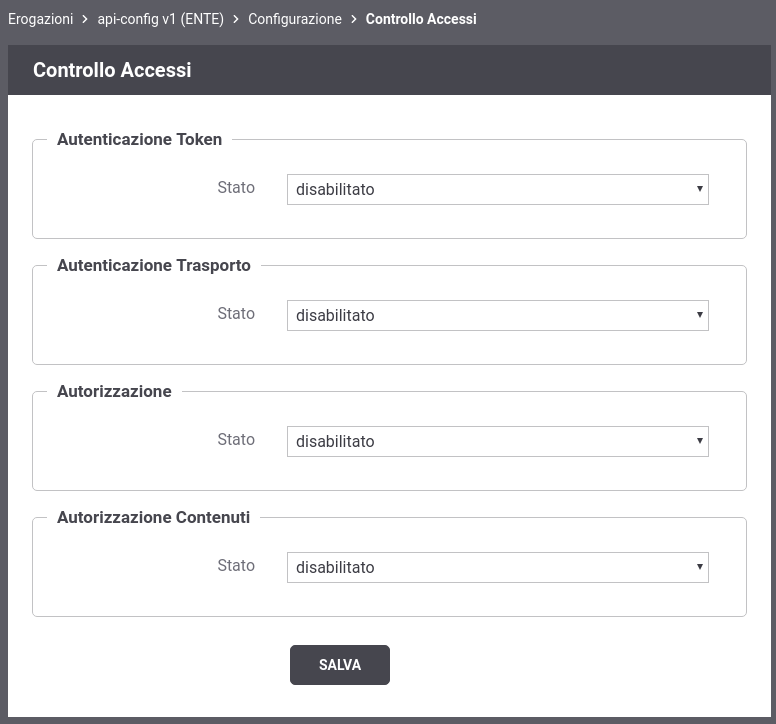
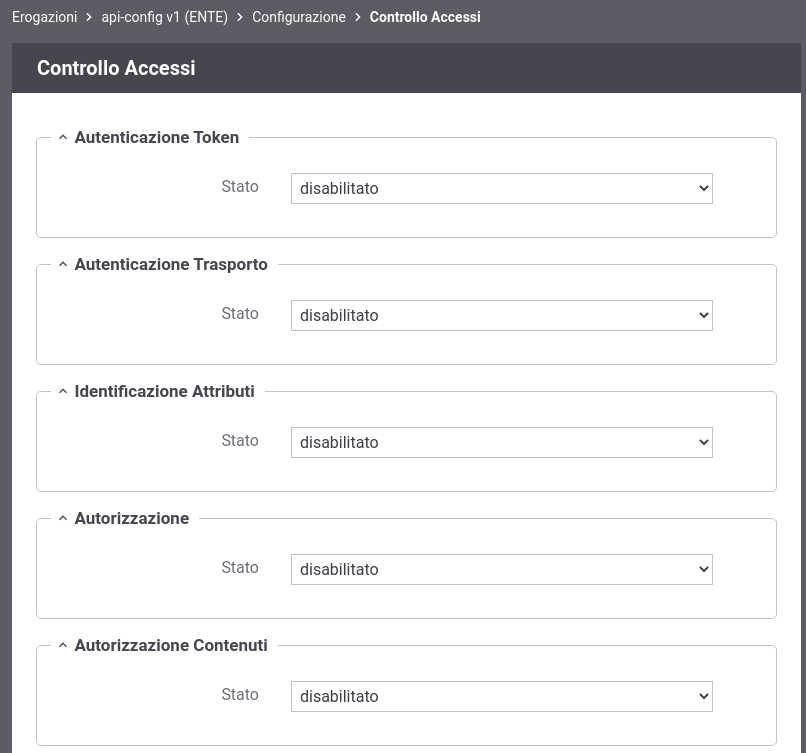
[Documentazione] Aggiunta documentazione per AttributeAuthority

diff --git a/resources/doc/src/manuali/console/configurazione/attributeAuthority/aaRichiesta.rst b/resources/doc/src/manuali/console/configurazione/attributeAuthority/aaRichiesta.rst
@@ -1,0 +1,82 @@
+.. _aaRichiesta:
+
+Richiesta di Attributi
+----------------------------------
+
+Ogni singola AA definisce nelle proprie specifiche di integrazione quali siano gli elementi obbligatori che devono essere presenti nelle richieste tra cui l'informazione necessaria ad identificare il soggetto per cui si sta richiedendo gli attributi.
+La sezione seguente consente di definire come GovWay debba formare la richiesta che verrà inoltrata all'endpoint configurato nella sezione :ref:`aaEndpoint`.
+
+-  *Posizione*: indica dove risiede la richiesta di attributi nella comunicazione HTTP:
+
+	-  *Authorization Bearer*: richiesta inserita nell'header HTTP 'Authorization' con prefisso 'Bearer';
+	-  *HTTP Payload*: richiesta veicolata come payload http;
+	-  *Header HTTP*: richiesta inserita in un header HTTP il cui nome viene definito nel campo successivo fornito;
+	-  *Parametro URL*: richiesta inserita come parametro della url il cui nome viene definito nel campo successivo fornito.
+
+-  *Http Method*: consente di selezionare il tipo di richiesta HTTP da utilizzare tra quelle compatibili con la *Posizione* della richiesta di attributi.
+
+-  *Tipo Richiesta*: indica il formato della richiesta:
+
+	-  *JWS*: token JWT firmato (https://datatracker.ietf.org/doc/html/rfc7515);
+	-  *JSON*: consente di definire la richiesta di attributi tramite la definizione di un template;
+	-  *Personalizzata*: simile alla precedente opzione, consente inoltre di impostare il Content-Type associato alla richiesta.
+
+**Richiesta nel formato JWT**
+
+Nel caso di richiesta di tipo *JWS* si deve fornire le informazioni necessarie a produrre il JWT firmato così suddivise:
+
+-  *JWS KeyStore*: dati di accesso al keystore contenente la chiave privata ed il certificato da utilizzare per firmare il JWT.
+
+-  *JWS Header*: consente di indicare quali dati debbano essere inseriti nella parte header (non firmati) del JWT; tra i parametri impostabili vi sono l'algoritmo di firma e l'indicazione se deve essere inserito il certificato utilizzato per la firma nell'header (x5c).
+
+-  *JWS Payload*: consente di impostare i valori dei claim presenti nella parte body (firmata) del JWT. Vengono fornite differenti modalità con le quali poter definire il payload:
+
+	-  *RFC7515*: consente di definire i claims standard ('iss','sub' e 'aud') e la validità temporale del JWT. Inoltre è possibile definire ulteriori claims da inserire nel body indicandoli per riga (nome=valore) nel campo 'Claims'. I claim 'iss', 'sub', 'aud' e gli eventuali claims aggiuntivi possono essere definiti tramite costanti o possono contenere parti dinamiche risolte a runtime dal Gateway (per maggiori dettagli :ref:`valoriDinamici`).
+
+	-  *Template*: il payload viene definito tramite un template che può contenere parti dinamiche risolte a runtime definite tramite una sintassi proprietaria di GovWay.
+
+	-  *Freemarker Template*: il payload viene definito utilizzando il template "Freemarker" (https://freemarker.apache.org/).
+
+	-  *Velocity Template*: il payload viene definito utilizzando il template "Velocity" (http://velocity.apache.org/).
+
+.. figure:: ../../_figure_console/AA-richiesta-jws.png
+    :scale: 100%
+    :align: center
+    :name: aaRichiestaJwsFig
+
+    Richiesta di Attributi nel formato JWS con modalità 'RFC7515'
+
+**Richiesta in altri formati**
+
+Nel caso di richiesta di tipo *Json* o *Personalizzata* si deve fornire un template che definisce la richiesta di attributi. Il tipo di template utilizzabile è selezionabile tra i seguenti:
+
+-  *Template*: il contenuto della richiesta viene definito tramite un template che può contenere parti dinamiche risolte a runtime definite tramite una sintassi proprietaria di GovWay;
+
+-  *Freemarker Template*: il contenuto della richiesta viene definito utilizzando il template "Freemarker" (https://freemarker.apache.org/);
+
+-  *Velocity Template*: il contenuto della richiesta viene definito utilizzando il template "Velocity" (http://velocity.apache.org/).
+
+.. figure:: ../../_figure_console/AA-richiesta-json.png
+    :scale: 100%
+    :align: center
+    :name: aaRichiestaJsonFig
+
+    Richiesta di Attributi nel formato JSON
+
+**Valori dinamici utilizzabili nei Template**
+
+I costrutti utilizzabili nei template sono i medesimi delle funzionalità di trasformazione descritte nella sezione ':ref:`valoriDinamici`' arricchiti di un'ulteriore istruzione che consente di individuare gli attributi da richiedere configurati sulla specifica fruizione o erogazione di API nella quale è stata riferita l'AA :
+
+- *requiredAttributes:METHOD* : il valore 'METHOD' fornito deve rappresentare un metodo valido all'interno della classe 'org.openspcoop2.pdd.core.token.attribute_authority.RequiredAttributes'
+
+	- Se la richiesta è definita tramite un template con sintassi proprietaria di GovWay gli attributi saranno direttamente accessibili utilizzando il formato '${requiredAttributes:METHOD}'; ad es. per ottenere la lista degli attributi in un formato utilizzabile all'interno di un array json usare ${requiredAttributes:jsonList()} oppure ${requiredAttributes:formatList(",")}.
+	- Se la richiesta è definita tramite template Freemarker o Velocity l'oggetto contenente gli attributi da richiedere è presente nel contesto con chiave di accesso 'aa'.
+
+Di seguito un esempio di template GovWay che definisce una richiesta JSON in cui l'identità della persona fisica per cui si richiede gli attributi viene prelevata dal token OAuth e gli attributi richiesti sono quelli configurati nell'erogazione di API:
+
+   ::
+
+       {
+		"attributes": [${requiredAttributes:jsonList()}],
+		"fiscalCode": "${tokenInfo:username}"
+       }

diff --git a/resources/doc/src/manuali/console/profiloApiGateway/trasformazioni/valoriDinamici.rst b/resources/doc/src/manuali/console/profiloApiGateway/trasformazioni/valoriDinamici.rst
@@ -5,19 +5,20 @@ Valori dinamici
 
 Le regole di trasformazione possono avvalersi di un contesto di risorse, con valori aggiornati dinamicamente dal gateway, cui attingere per le trasformazioni da attuare. Tali risorse sono utilizzabili quando si procede con la definizione di una regola di trasformazione. Elenchiamo le risorse disponibili:
 
--   header.NAME: valore dell'header http, corrispondente all'identificativo NAME, della richiesta.
--   query.NAME: valore di un parametro della url di invocazione, corrispondente all'identificativo NAME.
--   form.NAME: valore di un parametro della form, corrispondente all'identificativo NAME.
--   urlRegExp.EXPR: applicazione di un’espressione regolare, rappresentata dal valore EXPR, alla url di invocazione.
--   xPath.EXPR: applicazione di un'espressione XPath, rappresentata dal valore EXPR, alla richiesta xml (o soap).
--   jsonPath.EXPR: applicazione di un'espressione jsonPath, rappresentata dal valore EXPR, alla richiesta json.
--   transaction.id: l'identificativo UUID della transazione corrente.
--   date.FORMAT: la data di elaborazione del messaggio; il formato fornito deve essere conforme a quanto richiesto dalla classe java 'java.text.SimpleDateFormat' (es. ${date:yyyyMMdd_HHmmssSSS})
--   busta.FIELD: accesso alle informazioni proprie del profilo di interoperabilità utilizzato; il valore 'FIELD' fornito deve rappresentare un field valido all'interno della classe 'org.openspcoop2.protocol.sdk.Busta' (ad es. per il mittente usare *busta.mittente*)
--   property.NAME: accesso alle proprietà contenute nella traccia (ad esempio l'identificativo SDI); Il valore 'NAME' indica il nome della proprietà da utilizzare.
--   tokenInfo:FIELD: accesso ai claim di un token precedentemente validato; il valore 'FIELD' fornito deve rappresentare un field valido all'interno della classe 'org.openspcoop2.pdd.core.token.InformazioniToken' (es. per ottenere il valore del claim 'sub' usare ${tokenInfo:sub})
--   transportContext:FIELD: accesso ai dati della richiesta http; il valore 'FIELD' fornito deve rappresentare un field valido all'interno della classe 'org.openspcoop2.utils.transport.http.HttpServletTransportRequestContext' (es. per il principal usare ${transportContext:credential.principal})
--   config:NAME: accesso alle proprietà configurate per l'API; il valore 'NAME' indica la proprietà desiderata
+-   *header:NAME* : valore dell'header http, corrispondente all'identificativo NAME, della richiesta.
+-   *query:NAME* : valore di un parametro della url di invocazione, corrispondente all'identificativo NAME.
+-   *form:NAME* : valore di un parametro della form, corrispondente all'identificativo NAME.
+-   *urlRegExp:EXPR* : applicazione di un’espressione regolare, rappresentata dal valore EXPR, alla url di invocazione.
+-   *xPath:EXPR* : applicazione di un'espressione XPath, rappresentata dal valore EXPR, alla richiesta xml (o soap).
+-   *jsonPath:EXPR* : applicazione di un'espressione jsonPath, rappresentata dal valore EXPR, alla richiesta json.
+-   *transaction:id* : l'identificativo UUID della transazione corrente.
+-   *date:FORMAT* : la data di elaborazione del messaggio; il formato fornito deve essere conforme a quanto richiesto dalla classe java 'java.text.SimpleDateFormat' (es. ${date:yyyyMMdd_HHmmssSSS})
+-   *busta:FIELD* : accesso alle informazioni proprie del profilo di interoperabilità utilizzato; il valore 'FIELD' fornito deve rappresentare un field valido all'interno della classe 'org.openspcoop2.protocol.sdk.Busta' (ad es. per il mittente usare *busta.mittente*)
+-   *property:NAME*: accesso alle proprietà contenute nella traccia (ad esempio l'identificativo SDI); Il valore 'NAME' indica il nome della proprietà da utilizzare.
+-   *tokenInfo:FIELD* : accesso ai claim di un token precedentemente validato; il valore 'FIELD' fornito deve rappresentare un field valido all'interno della classe 'org.openspcoop2.pdd.core.token.InformazioniToken' (es. per ottenere il valore del claim 'sub' usare ${tokenInfo:sub})
+-   *aa:FIELD* : consente di accedere agli attributi recuperati tramite Attribute Authority; il valore 'FIELD' fornito deve rappresentare un field valido all'interno della classe 'org.openspcoop2.pdd.core.token.attribute_authority.InformazioniAttributi' (es. per ottenere il valore dell'attributo 'attr1' usare ${aa:attributes[attr1]}, se configurata solamente 1 A.A., altrimenti usare ${aa:attributes[nomeAttributeAuthority][attr1]} )
+-   *transportContext:FIELD* : accesso ai dati della richiesta http; il valore 'FIELD' fornito deve rappresentare un field valido all'interno della classe 'org.openspcoop2.utils.transport.http.HttpServletTransportRequestContext' (es. per il principal usare ${transportContext:credential.principal})
+-   *config:NAME* : accesso alle proprietà configurate per l'API; il valore 'NAME' indica la proprietà desiderata
 
 Per le risposte sono inoltre disponibili anche le seguenti risorse:
 
@@ -41,6 +42,7 @@ La sintassi per accedere le proprietà dinamiche sopraelencate è differente in 
 - ${busta:FIELD}
 - ${property:NAME}
 - ${tokenInfo:FIELD}
+- ${aa:FIELD}
 - ${transportContext:FIELD}
 - ${config:NAME}
 
@@ -57,6 +59,7 @@ Nei casi in cui il testo della trasformazione è interpretato da framework ester
 - busta (org.openspcoop2.protocol.sdk.Busta)
 - property (java.util.Map<String, String>)
 - tokenInfo (org.openspcoop2.pdd.core.token.InformazioniToken)
+- aa (org.openspcoop2.pdd.core.token.attribute_authority.InformazioniAttributi)
 - transportContext (org.openspcoop2.utils.transport.http.HttpServletTransportRequestContext)
 - config (java.util.Map<String, String>)
 

diff --git a/resources/doc/src/manuali/console/configurazione/attributeAuthority/index.rst b/resources/doc/src/manuali/console/configurazione/attributeAuthority/index.rst
@@ -1,0 +1,40 @@
+.. _aa:
+
+Attribute Authority
+-------------------
+
+Una Attribute Authority (AA) gestisce gli attributi qualificati di persone fisiche o giuridiche.
+Un attributo qualificato descrive una proprietà di un’identità e si definisce qualificato perché è attestato da un soggetto (Attribute Authority) cui la legge conferisce tale potere. 
+La descrizione e il formato di ogni attributo è specifico dell'Attribute Authority alla quale è possibile richiedere attributi solo mediante la stipula di una convenzione.
+Inoltre le singole AA definiscono nelle proprie specifiche di integrazione quali siano gli elementi obbligatori che devono essere presenti nelle richieste tra cui l'informazione necessaria ad identificare il soggetto per cui si sta richiedendo gli attributi.
+
+.. note::
+   Gli attributi che possono essere richiesti ad una AA si suddividono tra quelli senza necessità di consenso dell'utente e quelli che ne richiedono un consenso. Le AA configurabili su GovWay consentiranno di richiedere attributi che non necessitano di consenso dell'utente.
+
+Per poter definire politiche di controllo degli accessi basate sugli attributi o per poterne spedire uno verso l'endpoint associato ad un connettore è necessario registrare uno o più AA che dovranno poi essere riferite nella configurazione degli specifici servizi.
+
+La gestione delle AA si effettua andando alla sezione *Configurazione > Attribute Authority* della govwayConsole. Per registrarne una nuova si utilizza il pulsante *Aggiungi*. Il form di creazione appare inizialmente come quello
+illustrato in :numref:`aaFig`.
+
+
+.. figure:: ../../_figure_console/AA-nuova.png
+    :scale: 100%
+    :align: center
+    :name: aaFig
+
+    Registrazione di una Attribute Authority
+
+Inizialmente si inseriscono i dati identificativi:
+
+-  *Nome*: nome univoco da assegnare all'AA
+
+-  *Descrizione*: testo di descrizione generale
+
+Le sezioni successive dettagliano i criteri con cui si compone una richiesta di attributi e l'endpoint a cui deve essere spedita. Infine deve essere istruito GovWay su come interpretare la risposta di attributi ricevuta dall'AA.
+
+.. toctree::
+        :maxdepth: 3
+
+	aaEndpoint
+	aaRichiesta
+	aaRisposta

diff --git a/resources/doc/src/manuali/console/configurazione/attributeAuthority/aaEndpoint.rst b/resources/doc/src/manuali/console/configurazione/attributeAuthority/aaEndpoint.rst
@@ -1,0 +1,36 @@
+.. _aaEndpoint:
+
+Endpoint di un Attribute Authority
+----------------------------------
+
+In questa sezione vengono descritti i parametri configurabili per indicare i criteri di connessione verso l'AA a cui devono essere richiesti gli attributi qualificati.
+
+.. figure:: ../../_figure_console/AA-endpoint.png
+    :scale: 100%
+    :align: center
+    :name: aaEndpointFig
+
+    Endpoint di un Attribute Authority
+
+
+-  *URL*: endpoint dell'AA a cui è possibile inviare una richiesta di attributi. Il valore può essere definito come costante o contenere parti dinamiche risolte a runtime dal Gateway (per maggiori dettagli :ref:`valoriDinamici`).
+
+-  *Connection Timeout*: Tempo massimo in millisecondi di attesa per
+   stabilire una connessione con il server.
+
+-  *Read Timeout*: Tempo massimo in millisecondi di attesa per la
+   ricezione di una risposta dal server.
+
+-  *Https*: Parametri di configurazione nel caso in cui l'AA richieda un accesso Https.
+
+-  *Proxy*: Parametri di configurazione nel caso in cui l'AA richieda l'uso di un proxy per l'accesso.
+
+Successivamente devono essere forniti i dati di configurazione specifici dell'autenticazione client se richiesto dall'AA:
+
+-  *Autenticazione Http Basic*: flag da attivare nel caso in cui l'AA richieda autenticazione di tipo HTTP-BASIC. In questo caso dovranno essere forniti Username e Passwornd nei campi successivi.
+
+-  *Autenticazione Bearer*: flag da attivare nel caso in cui l'AA richieda autenticazione tramite un bearer token. Il token dovrà essere indicato nel campo successivo fornito.
+
+-  *Autenticazione Https*: flag da attivare nel caso in cui l'AA richieda autenticazione di tipo Https. In questo caso dovranno essere forniti tutti i dati di configurazione nei campi presenti nella sezione 'https'.
+
+Nel caso sia attivato il flag relativo ad un Proxy o una configurazione Https saranno presentate delle sezioni omonime dove poter inserire i dati di configurazione richiesti.

diff --git a/resources/doc/src/manuali/console/profiloApiGateway/controlloAccessi/identificazioneAttributi.rst b/resources/doc/src/manuali/console/profiloApiGateway/controlloAccessi/identificazioneAttributi.rst
@@ -1,0 +1,33 @@
+.. _apiGwIdentificazioneAttributi:
+
+Identificazione Attributi
+^^^^^^^^^^^^^^^^^^^^^^^^^^
+
+Questa sezione consente di abilitare l'interrogazione di una o più :ref:`aa` al fine di recuperare gli attributi qualificati del soggetto identificato su GovWay tramite i meccanismi di autenticazione precedentemente descritti nelle sezioni ':ref:`apiGwGestioneToken`' e ':ref:`apiGwAutenticazione`'.
+
+.. note::
+   La sezione viene visualizzata solamente se è stata registrata almeno una :ref:`aa`.
+
+Gli attributi recuperati saranno inseriti nel contesto della richiesta e potranno essere utilizzati per definire politiche di controllo degli accessi basate sugli attributi tramite i meccanismi di autorizzazione descritti nelle successive sezioni (':ref:`xacml`', ':ref:`tokenClaims`' e ':ref:`apiGwAutorizzazioneContenuti`'.
+
+Il form di configurazione appare come quello illustrato in :numref:`controlloAccessiAAFig`. 
+
+.. figure:: ../../_figure_console/AA-IA-singoli.png
+ :scale: 80%
+ :align: center
+ :name: controlloAccessiAAFig
+
+ Configurazione Identificazione Attributi tramite una singola AA
+
+Una volta abilitata la funzionalità, se viene selezionata un'unica :ref:`aa` sarà possibile indicare quali attributi qualificati debbano essere recuperati indicandoli nel campo '*Attributi Richiesti*', separandoli con la virgola, come riportato nell'esempio in :numref:`controlloAccessiAAFig`.
+
+Se invece vengono selezionate molteplici AA, gli attributi da richiedere devono essere indicati tramite una riga per ogni A.A. (nomeAA=listaAttributi) come in :numref:`controlloAccessiAA2Fig`. 
+
+.. figure:: ../../_figure_console/AA-IA-multipli.png
+ :scale: 80%
+ :align: center
+ :name: controlloAccessiAA2Fig
+
+ Configurazione Identificazione Attributi tramite multiple AA
+
+

diff --git a/resources/doc/src/manuali/console/configurazione/attributeAuthority/aaRisposta.rst b/resources/doc/src/manuali/console/configurazione/attributeAuthority/aaRisposta.rst
@@ -1,0 +1,34 @@
+.. _aaRisposta:
+
+Risposta di Attributi
+----------------------------------
+
+Ogni singola AA ha il suo proprio formato con cui restituisce gli attributi nella risposta. Il tipo della risposta deve essere definito nel campo '*Tipo Risposta*'. 
+Di seguito vengono descritte le opzioni richieste per ogni tipo.
+
+-  *JWS*: la risposta viene attesa come token JWT firmato (https://datatracker.ietf.org/doc/html/rfc7515) portato nel payload http. Deve essere indicato il claim che contiene gli attributi richiesti ed è possibile elencare più claims separandoli con la virgola. Nella sezione '*TrustStore*' devono essere indicati i dati che consentono di accedere al truststore da utilizzare per validare il token jws.
+
+.. figure:: ../../_figure_console/AA-risposta-jws.png
+    :scale: 100%
+    :align: center
+    :name: aaRispostaJwsFig
+
+    Risposta di Attributi nel formato JWS
+
+-  *JSON*: la risposta viene processata come un messaggio JSON. Se gli attributi sono contenuti in uno o più elementi devono esserne elencati i nome separandoli con la virgola. Invece lasciando vuoto il campo '*Attributi*' tutti gli elementi ritornati saranno interpretati come attributi.
+
+.. figure:: ../../_figure_console/AA-risposta-json.png
+    :scale: 100%
+    :align: center
+    :name: aaRispostaJsonFig
+
+    Risposta di Attributi nel formato JSON
+
+-  *Personalizzata*: la riposta viene processata tramite la class indicata nel campo '*ClassName*'. La classe fornita deve implementare l'interfaccia 'org.openspcoop2.pdd.core.token.attribute_authority.IRetrieveAttributeAuthorityResponseParser'.
+
+.. figure:: ../../_figure_console/AA-risposta-custom.png
+    :scale: 100%
+    :align: center
+    :name: aaRispostaCustomFig
+
+    Risposta di Attributi in un formato personalizzato

diff --git a/resources/doc/src/manuali/console/profiloApiGateway/controlloAccessi/xacmlPolicy.rst b/resources/doc/src/manuali/console/profiloApiGateway/controlloAccessi/xacmlPolicy.rst
@@ -59,8 +59,8 @@ effettuare la verifica all'interno di una XACML-Policy, sono i seguenti:
    org:govway:subject:token:userInfo:eMail                       Email dell'utente cui è associato il token
    org:govway:subject:token:userInfo:claim:<nome>                Tutti i claims presenti nella risposta del servizio di UserInfo
    org:govway:subject:attributes                                 Elenco dei nomi degli attributi recuperati interagendo con gli Attribute Authority configurati
-   org:govway:subject:attribute:<nome>                           In caso sia configurato un unico Attribute Authority, tutti gli attributi recuperati saranno inseriti nella XACMLRequest con questo formato
-   org:govway:subject:aa:<attributeAuthority>:attribute:<nome>   In caso siano configurate più Attribute Authority, tutti gli attributi recuperati saranno inseriti nella XACMLRequest con questo formato
+   org:govway:subject:attribute:<nome>                           In caso sia configurato un unico Attribute Authority, nella configurazione relativa all':ref:`apiGwIdentificazioneAttributi`, tutti gli attributi recuperati saranno inseriti nella XACMLRequest con questo formato
+   org:govway:subject:aa:<attributeAuthority>:attribute:<nome>   In caso siano configurate più Attribute Authority, nella configurazione relativa all':ref:`apiGwIdentificazioneAttributi`, tutti gli attributi recuperati saranno inseriti nella XACMLRequest con questo formato
    ============================================================  ===========
 
 Di seguito un esempio di XACMLPolicy che autorizza le richieste dei

diff --git a/resources/doc/src/manuali/console/configurazione/tokenPolicy/tokenNegoziazione.rst b/resources/doc/src/manuali/console/configurazione/tokenPolicy/tokenNegoziazione.rst
@@ -58,9 +58,11 @@ Successivamente devono essere forniti i dati di configurazione specifici dell'au
 
 -  *Autenticazione Http Basic*: flag da attivare nel caso in cui il servizio di negoziazione richieda autenticazione di tipo HTTP-BASIC. In questo caso dovranno essere forniti Client-ID e Client-Secret nei campi successivi.
 
--  *Autenticazione Bearer*: flag da attivare nel caso in cui il servizio di negoziazione richieda autenticazione tramite un bearer token. Quest'ultimo dovrà essere indicato nel campo seguente.
+-  *Autenticazione Bearer*: flag da attivare nel caso in cui il servizio di negoziazione richieda autenticazione tramite un bearer token. Il token dovrà essere indicato nel campo successivo fornito.
 
--  *Autenticazione Https*: flag da attivare nel caso in cui il servizio di negoziazione richieda autenticazione di tipo Https. In questo caso dovranno essere forniti tutti i dati di configurazione nei campi seguenti.
+-  *Autenticazione Https*: flag da attivare nel caso in cui il servizio di negoziazione richieda autenticazione di tipo Https. In questo caso dovranno essere forniti tutti i dati di configurazione nei campi presenti nella sezione 'https'.
+
+Nel caso sia attivato il flag relativo ad un Proxy o una configurazione Https saranno presentate delle sezioni omonime dove poter inserire i dati di configurazione richiesti.
 
 Se invece è previsto un JWT firmato saranno richiesti i parametri da inserire nel JWT (claims) e l'algoritmo di firma da utilizzare:
 

diff --git a/resources/doc/src/manuali/console/profiloApiGateway/controlloAccessi/autorizzazioneContenuti.rst b/resources/doc/src/manuali/console/profiloApiGateway/controlloAccessi/autorizzazioneContenuti.rst
@@ -17,6 +17,7 @@ Per identificare una risorsa sono utilizzabili le seguenti espressioni dinamiche
 - ${xPath:EXPR}: espressione XPath applicata su un messaggio XML
 - ${jsonPath:EXPR}: espressione JSONPath applicata su un messaggio JSON
 - ${tokenInfo:FIELD}: permette di accedere ai claim di un token; il valore 'FIELD' fornito deve rappresentare un field valido all'interno della classe 'org.openspcoop2.pdd.core.token.InformazioniToken' (es. per ottenere il valore del claim 'sub' usare ${tokenInfo:sub})
+- ${aa:FIELD} : permette di accedere agli attributi recuperati tramite Attribute Authority; il valore 'FIELD' fornito deve rappresentare un field valido all'interno della classe 'org.openspcoop2.pdd.core.token.attribute_authority.InformazioniAttributi' (es. per ottenere il valore dell'attributo 'attr1' usare ${aa:attributes[attr1]}, se configurata solamente 1 A.A., altrimenti usare ${aa:attributes[nomeAttributeAuthority][attr1]} )
 - ${transportContext:FIELD}: permette di accedere ai dati della richiesta http; il valore 'FIELD' fornito deve rappresentare un field valido all'interno della classe 'org.openspcoop2.utils.transport.http.HttpServletTransportRequestContext' (es. per il principal usare ${transportContext:credential.principal})
 
 Ogni valore atteso per una risorsa può essere fornito in una delle seguenti modalità:

diff --git a/resources/doc/src/manuali/console/profiloApiGateway/trasformazioni/trasformazioneRichiesta.rst b/resources/doc/src/manuali/console/profiloApiGateway/trasformazioni/trasformazioneRichiesta.rst
@@ -51,7 +51,7 @@ Per la modifica del contenuto della richiesta devono essere forniti i seguenti d
 
     - HTTP Payload Vuoto: opzione presente nel caso REST. Il contenuto della richiesta diventa un payload http vuoto.
     - SOAP Body Vuoto: opzione presente nel caso SOAP. Il contenuto della richiesta diventa un messaggio SOAP con SoapBody vuoto.
-    - Template: il contenuto della richiesta viene assegnato utilizzando il template fornito in configurazione.
+    - Template: il contenuto della richiesta viene assegnato utilizzando il template fornito in configurazione, che può contenere parti dinamiche definite tramite una sintassi proprietaria di GovWay.
     - Freemarker Template: il contenuto della richiesta viene assegnato utilizzando il template "Freemarker" (https://freemarker.apache.org/) fornito in configurazione.
     - Freemarker Template (Archivio Zip): il file fornito deve essere un archivio zip contenenti dei files che rispettano la sintassi del template engine 'Freemarker'. Viene richiesta la presenza, all'interno dell'archivio zip, di un file indice che possieda il nome 'index.ftl'.
     - Velocity Template: il contenuto della richiesta viene assegnato utilizzando il template "Velocity" (http://velocity.apache.org/) fornito in configurazione.

diff --git a/resources/doc/src/manuali/console/profiloApiGateway/controlloAccessi/tokenClaims.rst b/resources/doc/src/manuali/console/profiloApiGateway/controlloAccessi/tokenClaims.rst
@@ -38,3 +38,12 @@ Di seguito alcuni esempi:
 - client_id=${xPath:EXPR} : viene verificato che il claim 'client_id' possieda lo stesso valore estratto dalla richiesta xml tramite l'espressione XPath EXPR.
 - client_id=${jsonPath:EXPR} : viene verificato che il claim 'client_id' possieda lo stesso valore estratto dalla richiesta json tramite l'espressione jsonPath EXPR.
 
+Per verificare un attributo indicarlo con il prefisso 'attribute.' nella forma 'attribute.nome=valore'. Di seguito alcuni esempi
+
+- attribute.sesso=m : viene verificato che l'attributo 'sesso' possieda il valore m
+- attribute.stato=3,5,6 : viene verificato che l'attributo 'stato' possieda il valore 3 o 5 o 6
+
+Nel caso la configurazione relativa all':ref:`apiGwIdentificazioneAttributi` prevede più AA, la verifica di un attributo prelevato da un authority va indicato con i prefissi 'aa.' e 'attribute.' nella forma 'aa.nomeAuthority.attribute.nomeAttributo=valore'.
+
+- aa.AA2.attribute.sesso=m : viene verificato che l'attributo 'sesso', prelevato tramite l'Attribute Authority 'AA2', possia il valore m
+- aa.AA2.attribute.stato=3,5,6 : viene verificato che l'attributo 'stato', prelevato tramite l'Attribute Authority 'AA2', possia il valore 3 o 5 o 6

diff --git a/resources/doc/src/manuali/console/configurazione/tokenPolicy/introspection.rst b/resources/doc/src/manuali/console/configurazione/tokenPolicy/introspection.rst
@@ -48,12 +48,11 @@ del servizio di Token Introspection:
 
       -  *Autenticazione Bearer*: flag da attivare nel caso in cui il
          servizio di introspection richieda autenticazione tramite un
-         token. Quest'ultimo dovrà essere indicato nel campo seguente.
+         token. Il token dovrà essere indicato nel campo successivo fornito.
 
       -  *Autenticazione Https*: flag da attivare nel caso in cui il
          servizio di introspection richieda autenticazione di tipo
-         Https. In questo caso dovranno essere forniti tutti i dati di
-         configurazione nei campi seguenti.
+         Https. In questo caso dovranno essere forniti tutti i dati di configurazione nei campi presenti nella sezione 'https'.
 
    -  *Google - TokenInfo*: Riferimento al servizio di token
       introspection di Google. L'unico campo da fornire in questo caso è
@@ -94,3 +93,5 @@ I dati da fornire sono:
    necessario indicare con il flag opportuno il tipo di
    autenticazione richiesta dal servizio di introspection
    personalizzato.
+
+Nel caso sia attivato il flag relativo ad un Proxy o una configurazione Https saranno presentate delle sezioni omonime dove poter inserire i dati di configurazione richiesti.
